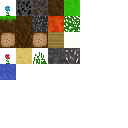
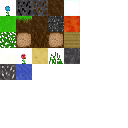
some organization

Changed region(s): [[0.0, 0.0, 0.625, 0.625]]

diff --git a/src/application/input.rs b/src/application/input.rs
@@ -1,6 +1,32 @@
-use std::collections;
+use std::{collections, ops};
 
 use winit::keyboard;
+
+#[derive(Debug, Default, Clone, Copy)]
+pub enum MouseMode {
+    #[default]
+    None,
+    Free,
+    Grab,
+}
+
+impl MouseMode {
+    pub fn cycle(&self) -> Self {
+        match self {
+            | MouseMode::None => MouseMode::Free,
+            | MouseMode::Free => MouseMode::Grab,
+            | MouseMode::Grab => MouseMode::None,
+        }
+    }
+}
+
+impl ops::Not for MouseMode {
+    type Output = Self;
+
+    fn not(self) -> Self::Output {
+        self.cycle()
+    }
+}
 
 #[derive(bon::Builder, Debug, Default)]
 pub struct Input {
@@ -10,8 +36,8 @@ pub struct Input {
     pub mouse_released: (bool, bool),
     pub mouse_delta: (f32, f32),
     pub request_quit: bool,
-    pub request_grab: bool,
     pub request_screenshot: bool,
+    pub request_grab: MouseMode,
 }
 
 impl Input {

diff --git a/src/minecraft_week.rs b/src/minecraft_week.rs
@@ -2,16 +2,16 @@ use std::{env, range, sync, time};
 
 use crate::{
     application::{self, input},
-    atlas, block, chunk,
     engine::{
         aabb, camera,
         kinematics::{self},
+        player,
         ray::{self, Cast},
         transform,
     },
-    pipelines, player,
     render::{self, GfxCamera, resource, util},
-    skybox, terrain,
+    visual::{atlas, pipelines, skybox},
+    world::{block, chunk, terrain},
 };
 
 #[derive(bon::Builder, Debug)]
@@ -78,7 +78,7 @@ impl application::Application for MinecraftWeek {
         let terrain_gen = sync::Arc::new(terrain::TerrainGenerator::new(seed));
 
         let camera = camera::Camera::builder()
-            .inner(transform::Transform::from_position(glam::vec3(0.0, 127.0, 0.0)))
+            .inner(transform::Transform::from_position(glam::vec3(0.0, 116.0, 0.0)))
             .fov(93.0)
             .znear(0.1)
             .zfear(1000.0)
@@ -92,7 +92,7 @@ impl application::Application for MinecraftWeek {
 
         let mut world = chunk::ChunkManager::builder()
             .atlas(sync::Arc::clone(&texture_atlas))
-            .view_distance(18)
+            .view_distance(16)
             .terrain(sync::Arc::clone(&terrain_gen))
             .chunk_width(32)
             .chunk_height(128)
@@ -107,10 +107,10 @@ impl application::Application for MinecraftWeek {
 
         let instant = time::Instant::now();
         let frame_data = FrameData {
-            tick: 0,
-            time: instant.elapsed().as_secs_f32(),
             dt: 0.0,
+            time: instant.elapsed().as_secs_f32(),
             instant: time::Instant::now(),
+            tick: 0,
         };
 
         let block_selection = 0;
@@ -203,14 +203,21 @@ impl MinecraftWeek {
             self.player.collisions = !self.player.collisions;
         }
         if input.consume_key_press("keyf") {
-            self.block_selection += 1;
+            self.block_selection = self.block_selection.wrapping_add(1);
+            log::info!("Block selection: {}", self.block_selection as u8 % block::Block::BlockCounter as u8);
+        }
+        if input.consume_key_press("keyg") {
+            self.block_selection = self.block_selection.wrapping_sub(1);
+            log::info!("Block selection: {}", self.block_selection as u8 % block::Block::BlockCounter as u8);
         }
 
         if input.consume_key_press("keyo") {
             self.gfx_config.ao_strength -= 0.5;
+            log::info!("AO strength: {}", self.gfx_config.ao_strength);
         }
         if input.consume_key_press("keyp") {
             self.gfx_config.ao_strength += 0.5;
+            log::info!("AO strength: {}", self.gfx_config.ao_strength);
         }
     }
 
@@ -291,6 +298,7 @@ impl MinecraftWeek {
                     self.player.collider + (self.camera.inner.position - self.player.collider.center());
             }
         }
+        log::debug!("Player is in: {}", self.world.chunk_surrounding(self.camera.inner.position));
     }
 
     fn update_resources(&mut self, context: &mut render::GfxContext, render: &mut render::GfxRenderer) {

diff --git a/src/main.rs b/src/main.rs
@@ -1,15 +1,9 @@
 pub mod application;
-pub mod atlas;
-pub mod block;
-pub mod chunk;
 pub mod engine;
-pub mod mesher;
 pub mod minecraft_week;
-pub mod pipelines;
-pub mod player;
 pub mod render;
-pub mod skybox;
-pub mod terrain;
+pub mod visual;
+pub mod world;
 
 fn main() -> anyhow::Result<()> {
     application::run::<minecraft_week::MinecraftWeek>()?;

diff --git a/src/application/app_runner.rs b/src/application/app_runner.rs
@@ -173,11 +173,16 @@ where
                 }
 
                 match state.input.request_grab {
-                    | true => {
+                    input::MouseMode::None => {
+                        state.window.set_cursor_grab(window::CursorGrabMode::None).unwrap();
+                        state.window.set_cursor_visible(true);
+                        state.input.consume_mouse_delta();
+                    }
+                    | input::MouseMode::Grab => {
                         state.window.set_cursor_grab(window::CursorGrabMode::Confined).unwrap();
                         state.window.set_cursor_visible(false);
                     }
-                    | false => {
+                    | input::MouseMode::Free => {
                         state.window.set_cursor_grab(window::CursorGrabMode::None).unwrap();
                         state.window.set_cursor_visible(true);
                     }

diff --git a/src/visual/mod.rs b/src/visual/mod.rs
@@ -1,0 +1,4 @@
+pub mod atlas;
+pub mod mesher;
+pub mod pipelines;
+pub mod skybox;

diff --git a/src/world/mod.rs b/src/world/mod.rs
@@ -1,0 +1,3 @@
+pub mod block;
+pub mod chunk;
+pub mod terrain;

diff --git a/src/engine/mod.rs b/src/engine/mod.rs
@@ -1,6 +1,7 @@
 pub mod aabb;
 pub mod camera;
 pub mod kinematics;
+pub mod player;
 pub mod ray;
 pub mod storage;
 pub mod transform;

diff --git a/README.md b/README.md
@@ -38,16 +38,9 @@ Sun shadows weren't able to be added in the initial week.
 
 ### Examples
 
-There are some photos in `images/` that I took while making this
+There are some photos in `images/` that I took while making this.
 
-##### Files that are in disarray
+### License
 
-- terrain.rs
-- minecraft_week.rs - the main file is so bad
-
-###### Goals for today (last day)
-
-- fix structures generating over chunk borders
-- refactor terrain so that the file is readable
-
+Use any part for whatever you want.
 